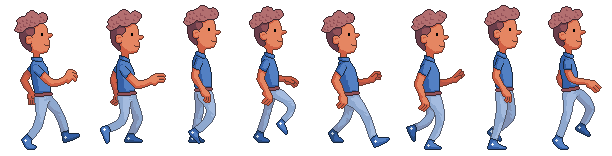
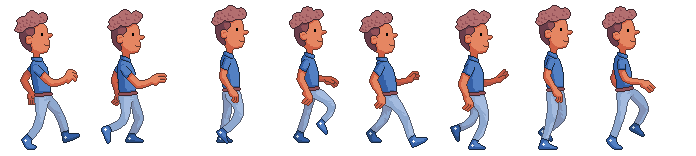
Finally got new walking graphic working and formatted correctly

diff --git a/public/walk.css b/public/walk.css
@@ -1,5 +1,5 @@
 .sprite {
-	width: 70px;
+	width: 82px;
 	height: 148px;
 	margin-top: 40px;
 }
@@ -14,39 +14,39 @@
 
 .walk-right {
 	background-image: url(walking_guy_frames.png);/*walking_guy_frames.png*/
-	-webkit-animation: walk .9s steps(6) infinite;
-	-moz-animation: walk .9s steps(6) infinite;
-	-ms-animation: walk .9s steps(6) infinite;
-	-o-animation: walk .9s steps(6) infinite;
-	animation: walk .9s steps(6) infinite;
+	-webkit-animation: walk 1.9s steps(8) infinite;
+	-moz-animation: walk 1.9s steps(8) infinite;
+	-ms-animation: walk 1.9s steps(8) infinite;
+	-o-animation: walk 1.9s steps(8) infinite;
+	animation: walk 1.9s steps(8) infinite;
 }
 
 .walk-left {
 	background-image: url(http://atomicrobotdesign.com/blog_media/css-sprite/walk-left.png);
-	-webkit-animation: walk .9s steps(6) infinite;
-	-moz-animation: walk .9s steps(6) infinite;
-	-ms-animation: walk .9s steps(6) infinite;
-	-o-animation: walk .9s steps(6) infinite;
-	animation: walk .9s steps(6) infinite;
+	-webkit-animation: walk 1.9s steps(8) infinite;
+	-moz-animation: walk 1.9s steps(8) infinite;
+	-ms-animation: walk 1.9s steps(8) infinite;
+	-o-animation: walk 1.9s steps(8) infinite;
+	animation: walk 1.9s steps(8) infinite;
 }
 
 @-webkit-keyframes walk {
 	from { background-position: 0px; }
-	to { background-position: -612px; }
+	to { background-position: -687px; }
 }
 @-moz-keyframes walk {
 	from { background-position: 0px; }
-	to { background-position: -612px; }
+	to { background-position: -687px; }
 }
 @-ms-keyframes walk {
 	from { background-position: 0px; }
-	to { background-position: -612px; }
+	to { background-position: -687px; }
 }
 @-o-keyframes walk {
 	from { background-position: 0px; }
-	to { background-position: -612px; }
+	to { background-position: -687px; }
 }
 @-keyframes walk {
 	from { background-position: 0px; }
-	to { background-position: -612px; }
+	to { background-position: -687px; }
 }
